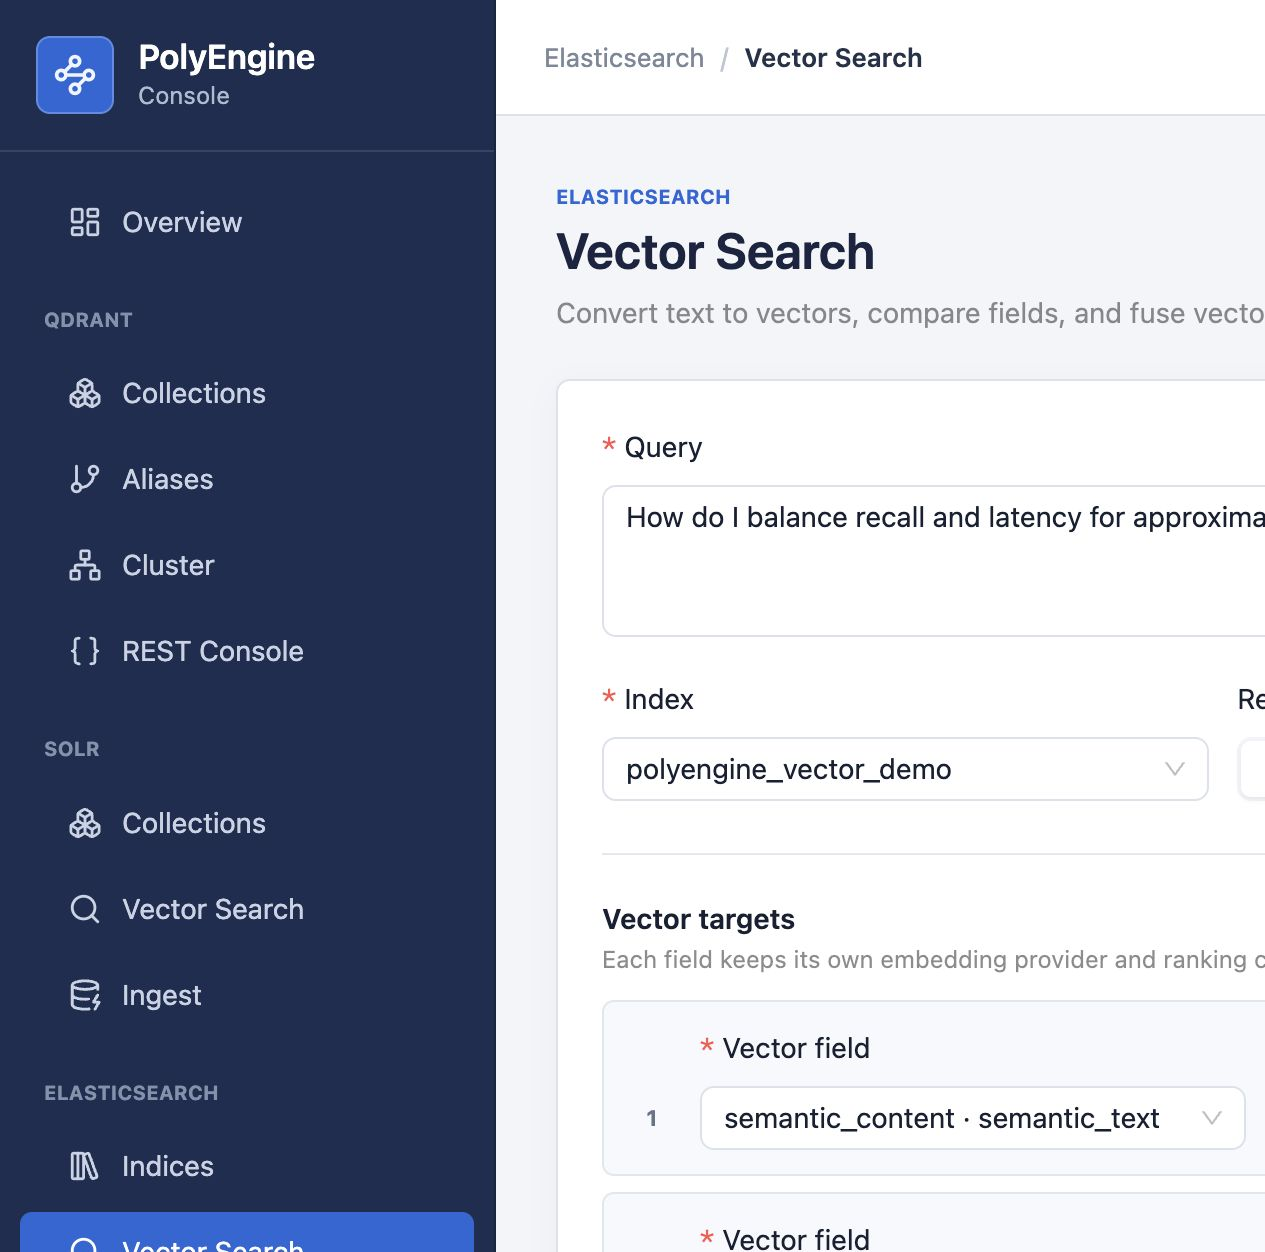
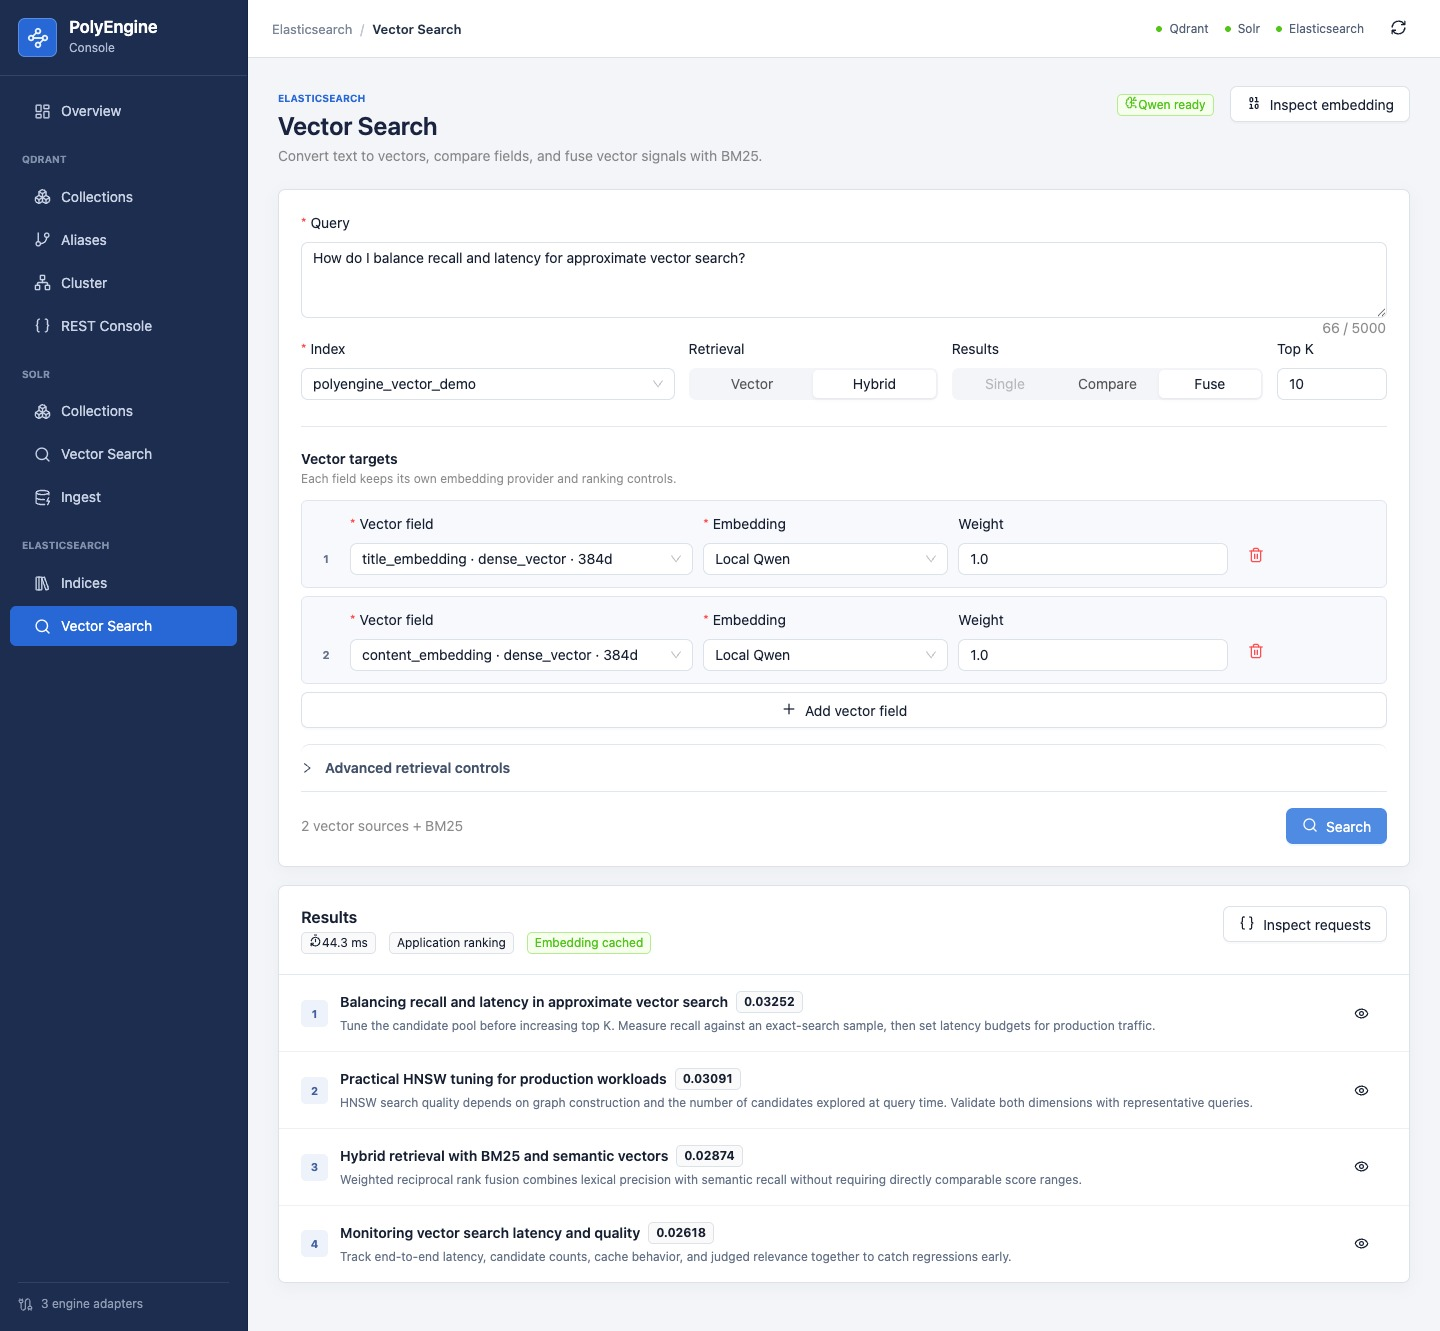
docs: refresh Elasticsearch screenshots

diff --git a/README.md b/README.md
@@ -16,7 +16,7 @@ Operate Qdrant, explore Solr and Elasticsearch vector relevance, and keep each e
 
 </div>
 
-![PolyEngine Console overview with Qdrant and Solr connected](docs/images/overview.png)
+![PolyEngine Console overview with Qdrant, Solr, and Elasticsearch connected](docs/images/overview.png)
 
 PolyEngine Console is a modular administration workspace for local search infrastructure. The default screen is an engine health overview rather than an engine-specific page. Qdrant, Solr, and Elasticsearch keep separate routes, query caches, health checks, and FastAPI processes, so one unavailable engine never blocks the others.
 
